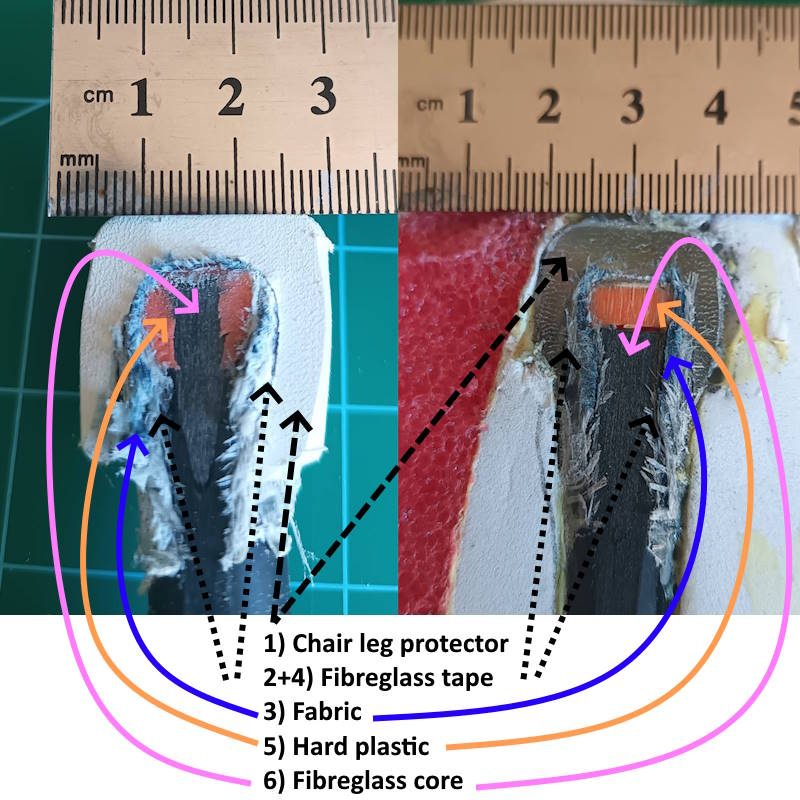
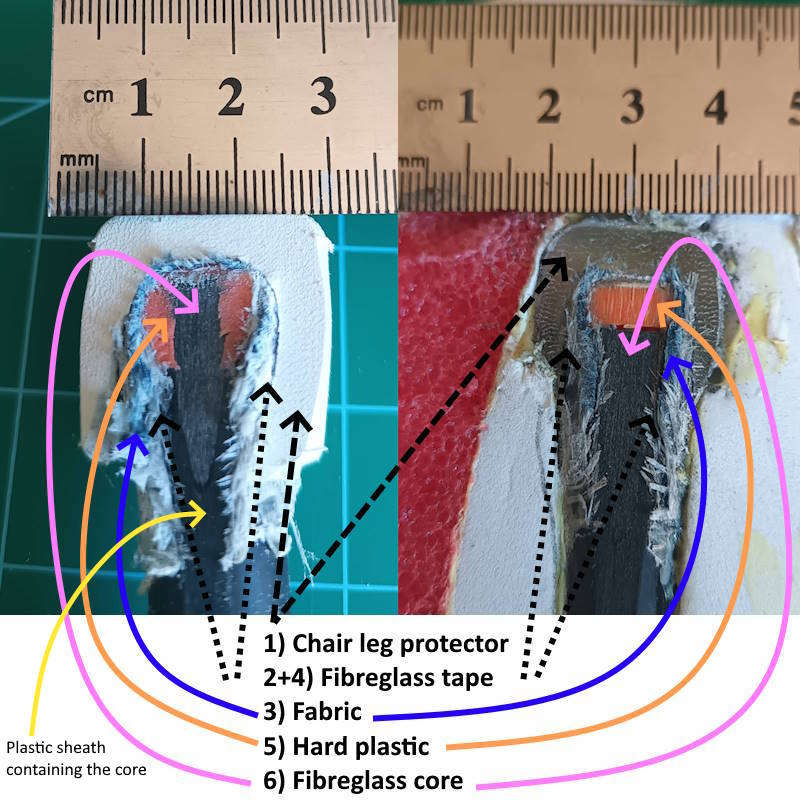
details

diff --git a/weapons/large-core-construction.md b/weapons/large-core-construction.md
@@ -1,17 +1,42 @@
+# TOC
+
+* [🔙Back](../ReadMe.md)
+* [The solid core](#the-solid-core)
+* [The dense foam core](#the-dense-foam-core)
+* [The striking edges](#the-striking-edges)
+* [Final cross section view](#final-cross-section-view)
+* [Painting](#painting)
+* [Destructive testing](#destructive-testing)
+
+# Overview
+
+This page is written somewhat in the style of a tutorial, but is solely meant to document our processes for review.
+
+In this document, we are constructing a large prop, such as a sword, which would by unacceptably floppy without a solid core of some kind. The core should be lightweight, strong and safe.
+
+From the inside out, we will build:
+
+1. A solid core with composite layers
+2. A dense foam layer enclosing the core
+3. A soft foam layer for safe combat play
+4. Surface finishes
 
 # The solid core
 
-> This is the only obviously-dangerous part of the prop, so most precautions occur here.
+> ⚠ This is the only obviously-dangerous part of the prop, so most precautions occur here.
 
-Our stock material is a 14mm fibreglass tube. It has a thin plastic coating, so the diameter is closer to 13mm if this is peeled back. The wall thickness is about 2.5mm.
+Our stock material is a 14mm hollow fibreglass tube. It is coated in a thin plastic sheath, so the diameter is closer to 13mm if this was removed. The wall thickness is about 2.5mm.
+
+The "hollow tube" form-factor is more rigid than a "solid rod" form, which is useful for very long props. Shorter props may be better suited to solid rods instead.
 
 Our objective in preparing the solid core is twofold:
-1. In case of the event where the core escapes the weapon, mitigate the danger of its hard ends, by wrapping them in softer materials.
+1. In a situation where the core escapes the weapon, mitigate the danger of its hard ends, by wrapping them in protective materials.
 2. Reduce the chances of the core abrading or piercing its way out of the weapon in the first place, by placing abrasion-resistant and tear-resistant layers along its path.
 
 ![](./images/1.jpg "The end of our fibreglass rod")
 
 ### Layer 1: Hard plastic
+
 An initial hard layer is added to act as an immediate abrasion barrier and "cap" to contain the cut ends of the fibreglass material.
 
 The stock material that I have comes with hard plastic end-caps from the factory, which are useful for us to keep here:
@@ -21,11 +46,12 @@ The stock material that I have comes with hard plastic end-caps from the factory
 ![](./images/3.jpg "Factory end-cap, in place")
 
 ### Layer 1 alternative: DIY Hard plastic
-Without a pre-made hard plastic stopper, we can craft one with a "3D printer pen" and a sanding device:
+
+Without a pre-made hard plastic stopper, we can craft one with a "3D printer pen" and sandpaper:
 
 ![](./images/6.jpg "A 3D printer pen")
 
-An initial application of plastic will be quite messy, but by alternating between applying plastic, compressing it (with a heat-proof glove) and sanding the result to expose any flaws, we can produce a solid block to contain the end of the fibreglass:
+An initial application of plastic will be quite messy, but by alternating between applying plastic, compressing it (with a heat-proof glove) and sanding the result to expose any flaws, we can quickly produce a solid cap that contains the end of the fibreglass and acts as an initial abrasion barrier.
 
 ![](./images/8.jpg "After one coat")
 
@@ -33,7 +59,10 @@ An initial application of plastic will be quite messy, but by alternating betwee
 
 ![](./images/9.jpg "After several coats (sanded in-between)")
 
+The finished cap can be permanently affixed with a small amount of superglue or epoxy.
+
 ### Layer 2: Fibreglass tape
+
 The next line of defence is fibreglass reinforced tape, which is highly resistant to tearing. We build up several layers of tape along three different axes to secure the end of the core. A very small amount of superglue (CA) or epoxy is used on the edges of the tape to mitigate future peeling.
 
 ![](./images/4.jpg "One layer of tape")
@@ -42,13 +71,13 @@ The next line of defence is fibreglass reinforced tape, which is highly resistan
 
 ![](./images/10.jpg "Multiple layers over home-made end-cap")
 
-### Layer 3: Fabric
+### Layer 3: Fabric (and more fibreglass)
 
-In the unlikely case that the previous layers wear through, an abrasion resistant fabric layer is added. Ideally Kevlar is used here, but in these photographs, upcycled denim is used as a more readily available alternative (*note that denim sourced in this way will vary* greatly *in quality and properties, so samples should be tested for abrasion resistance before use*). Glues should be avoided here as they may change the properties of the fabric unpredictable, such as making it brittle and prone to cracking.
+In the unlikely case that the previous layers wear through, an abrasion resistant fabric layer is added. Ideally Kevlar is used here, but in these photographs, upcycled denim is used as a more readily available alternative (*note that denim sourced in this way will vary* greatly *in quality and properties, so samples should be tested for abrasion resistance before use*). Glues should be avoided here as they may unpredictably change the properties of the fabric, such as making it brittle and prone to cracking.
 
-The fabric is secured in place with another 3+ layers of fibreglass tape.
+The fabric is secured in place with another 3+ layers of fibreglass tape (aligned in 3 different orientations).
 
-> ⚠ If glue is used to mitigate tape peeling as before, only flexible glue (*such as for shoe repairs*) is used *on the outermost layer of tape only* to reduce the likelihood that the fabric is affected.
+> ⚠ If glue is used to mitigate tape peeling as before, we must reduce the likelihood that the fabric is affected. Glue must be used *only on the outermost layer of tape* and *of a flexible type (such as for shoe repair)*.
 
 ![](./images/11.jpg "Fabric and fibreglass over our DIY end-cap")
 
@@ -56,6 +85,8 @@ The fabric is secured in place with another 3+ layers of fibreglass tape.
 
 ### Layer 4: Dense, soft plastic
 The above layers alone are probably enough to prevent the core from ever wearing through the prop, but a "chair leg protector" is added as a last line of defence. These are usually a flexible but hard-wearing plastic designed to resist a lot of abrasion. This final layer can be held in place with a flexible glue, such as "shoe" glues, or "wet cured" contact cement.
+
+There are many kinds of these devices available, allowing them to be used in every prop design (*e.g. the largest "soft rubber" kind can when space is available, and smaller "hard rubber" kinds can be used when space constraints are tight*).
 
 ![](./images/12.jpg "A small, clear chair leg protector")
 
@@ -111,9 +142,9 @@ The prop is now reduced to approximate size and shape using a belt sander, power
 
 # The striking edges
 
-> Constructing an entire weapon from dense EVA foam is possible if your opponents are OK with a very firm hit... but softer is better.
+> Constructing an entire weapon from dense EVA foam is possible ***if*** your opponents are OK with a very firm hit... but softer is better.
 > 
-> Also, if too much contact cement has been used, it can result in inconsistent flexibility between layers (tough zones), giving another reason to specially prepare surfaces meant for striking.
+> Also, contact cement can result in inconsistent flexibility between layers (tough zones), giving another reason to specially prepare surfaces meant for striking.
 
 To provide a safer striking surface, the dense foam layers are now shaped approximately one inch (2.5 cm) smaller than the final design. A sample of low density foam slightly larger than required is prepared to replace the striking edge.
 
@@ -139,4 +170,18 @@ After curing, the skin can be trimmed and any gaps filled with air-drying foam c
 
 # Final cross section view
 
-![](./images/28.jpg "Cross section of the entire process")
+![](./images/31.jpg "Cross section of the entire process")
+
+# Painting
+
+All surfaces are lightly sanded and cleaned.
+
+Liquid latex is mixed with *up to* 50% acrylic paint. A lower percentage of paint requires more layers, but provides better cushioning and strength. If lower viscosity is required, up to one third distilled water can be added to the latex/paint mix, but will increase drying times.
+
+Thin layers of this paint are applied with a sponge brush, and allowed to air-dry (below 50°C) between successive coats.
+
+For non-combat props, a cheaper alternative recipe is: PVA glue **or** Acrylic sealant with *up to* 50% acrylic paint as a base layer (*the paint helps to visually confirm full coverage*), followed by any successive paint types once the base is fully dry. Several coats of the base layer recipe will provide a tougher skin.
+
+# Destructive testing
+
+to do - post the science!

diff --git a/ReadMe.md b/ReadMe.md
@@ -1,0 +1,3 @@
+This repository contains our prop construction processes, for quality check purposes.
+
+[Construction of large-core weapons](./weapons/large-core-construction.md)
